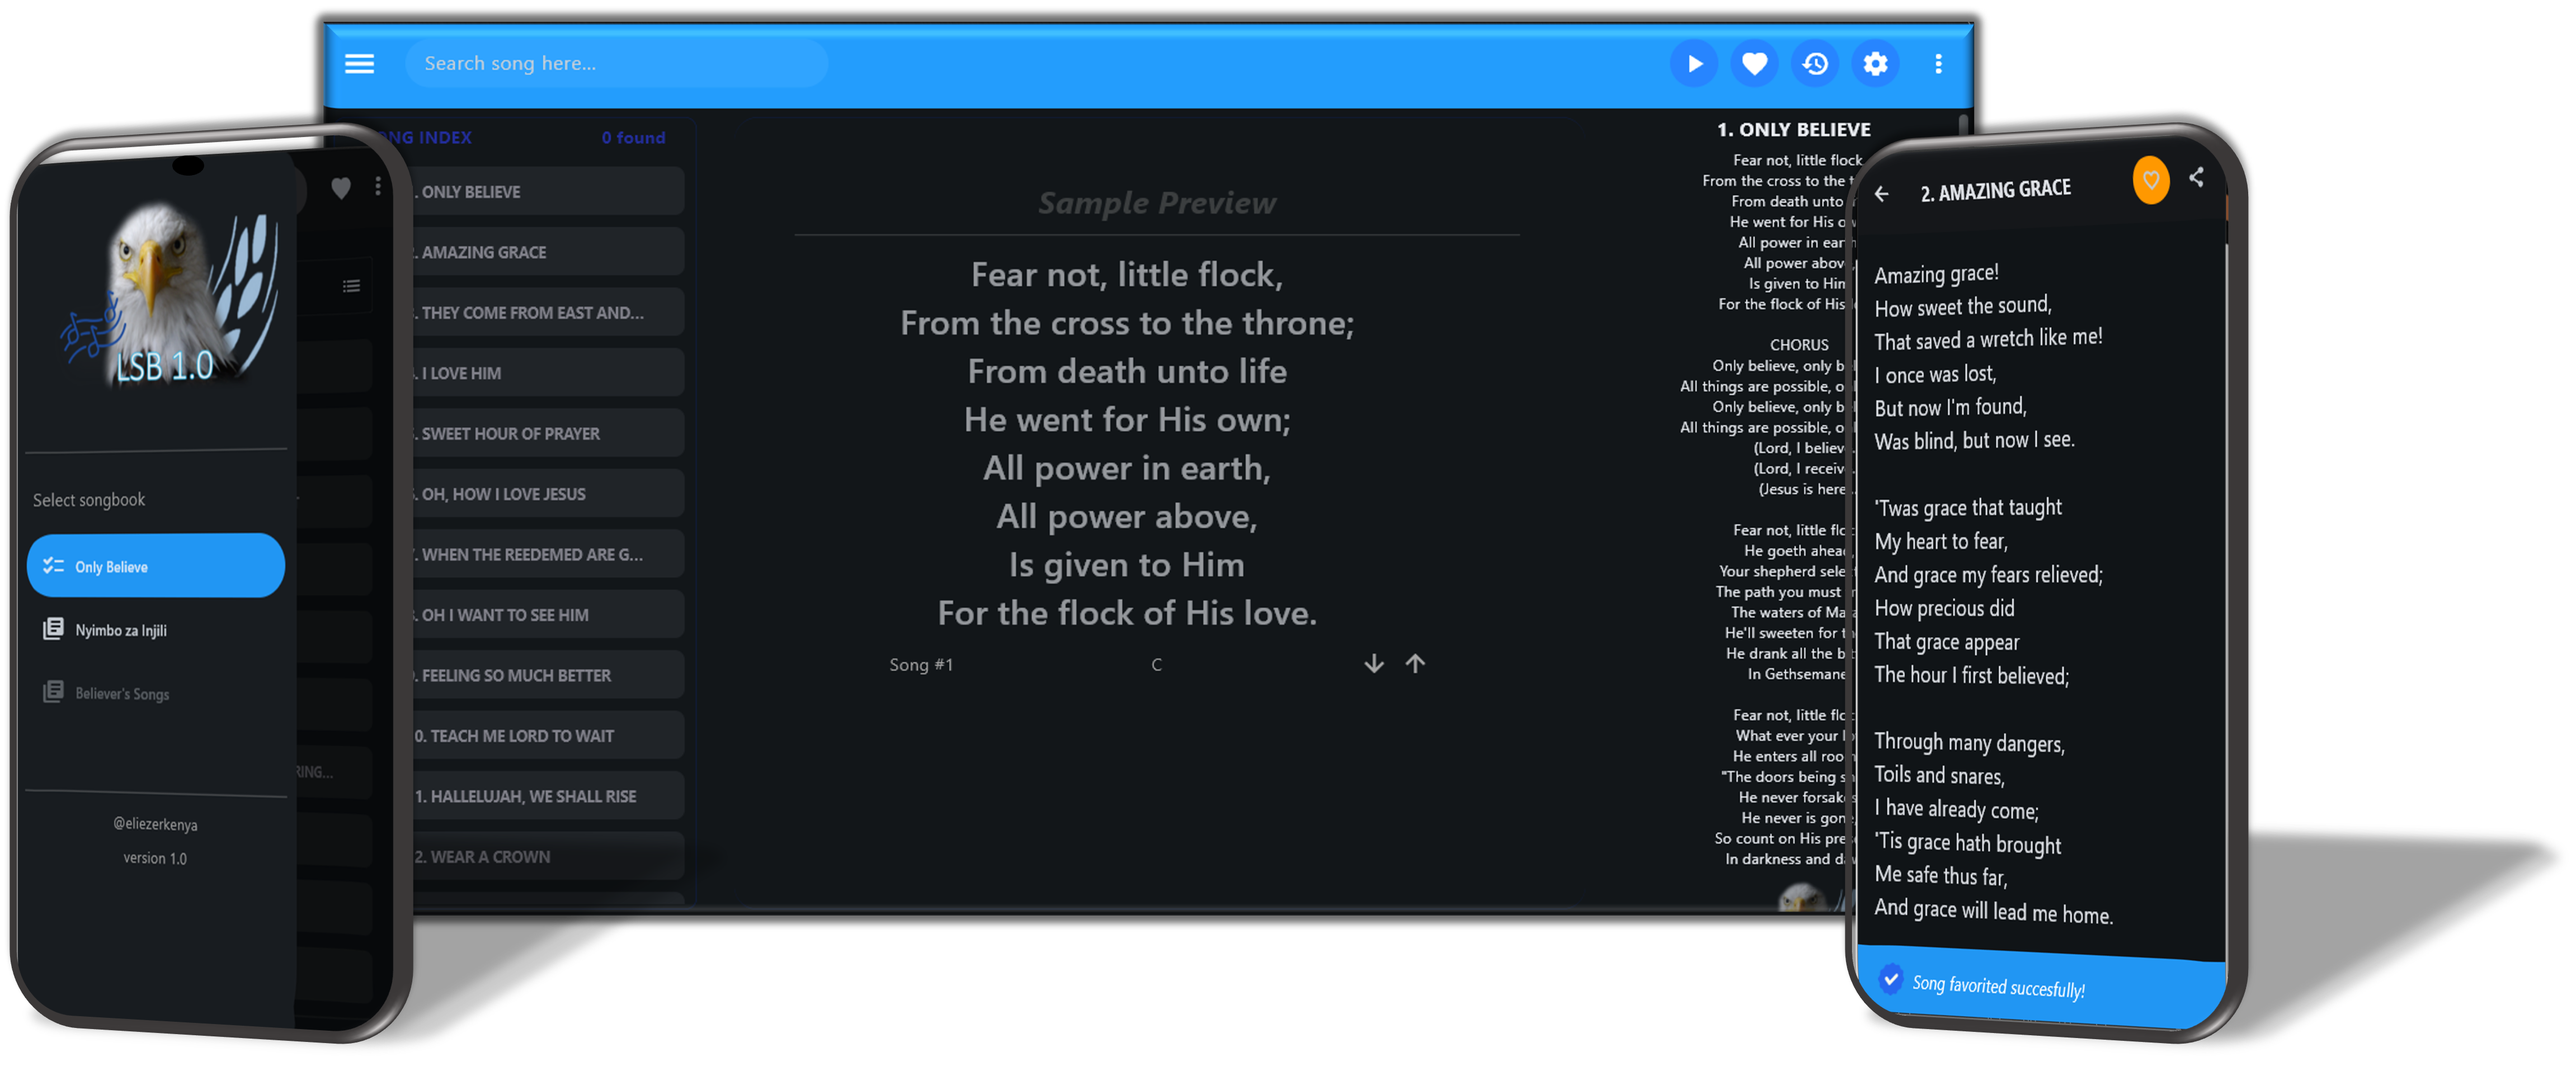
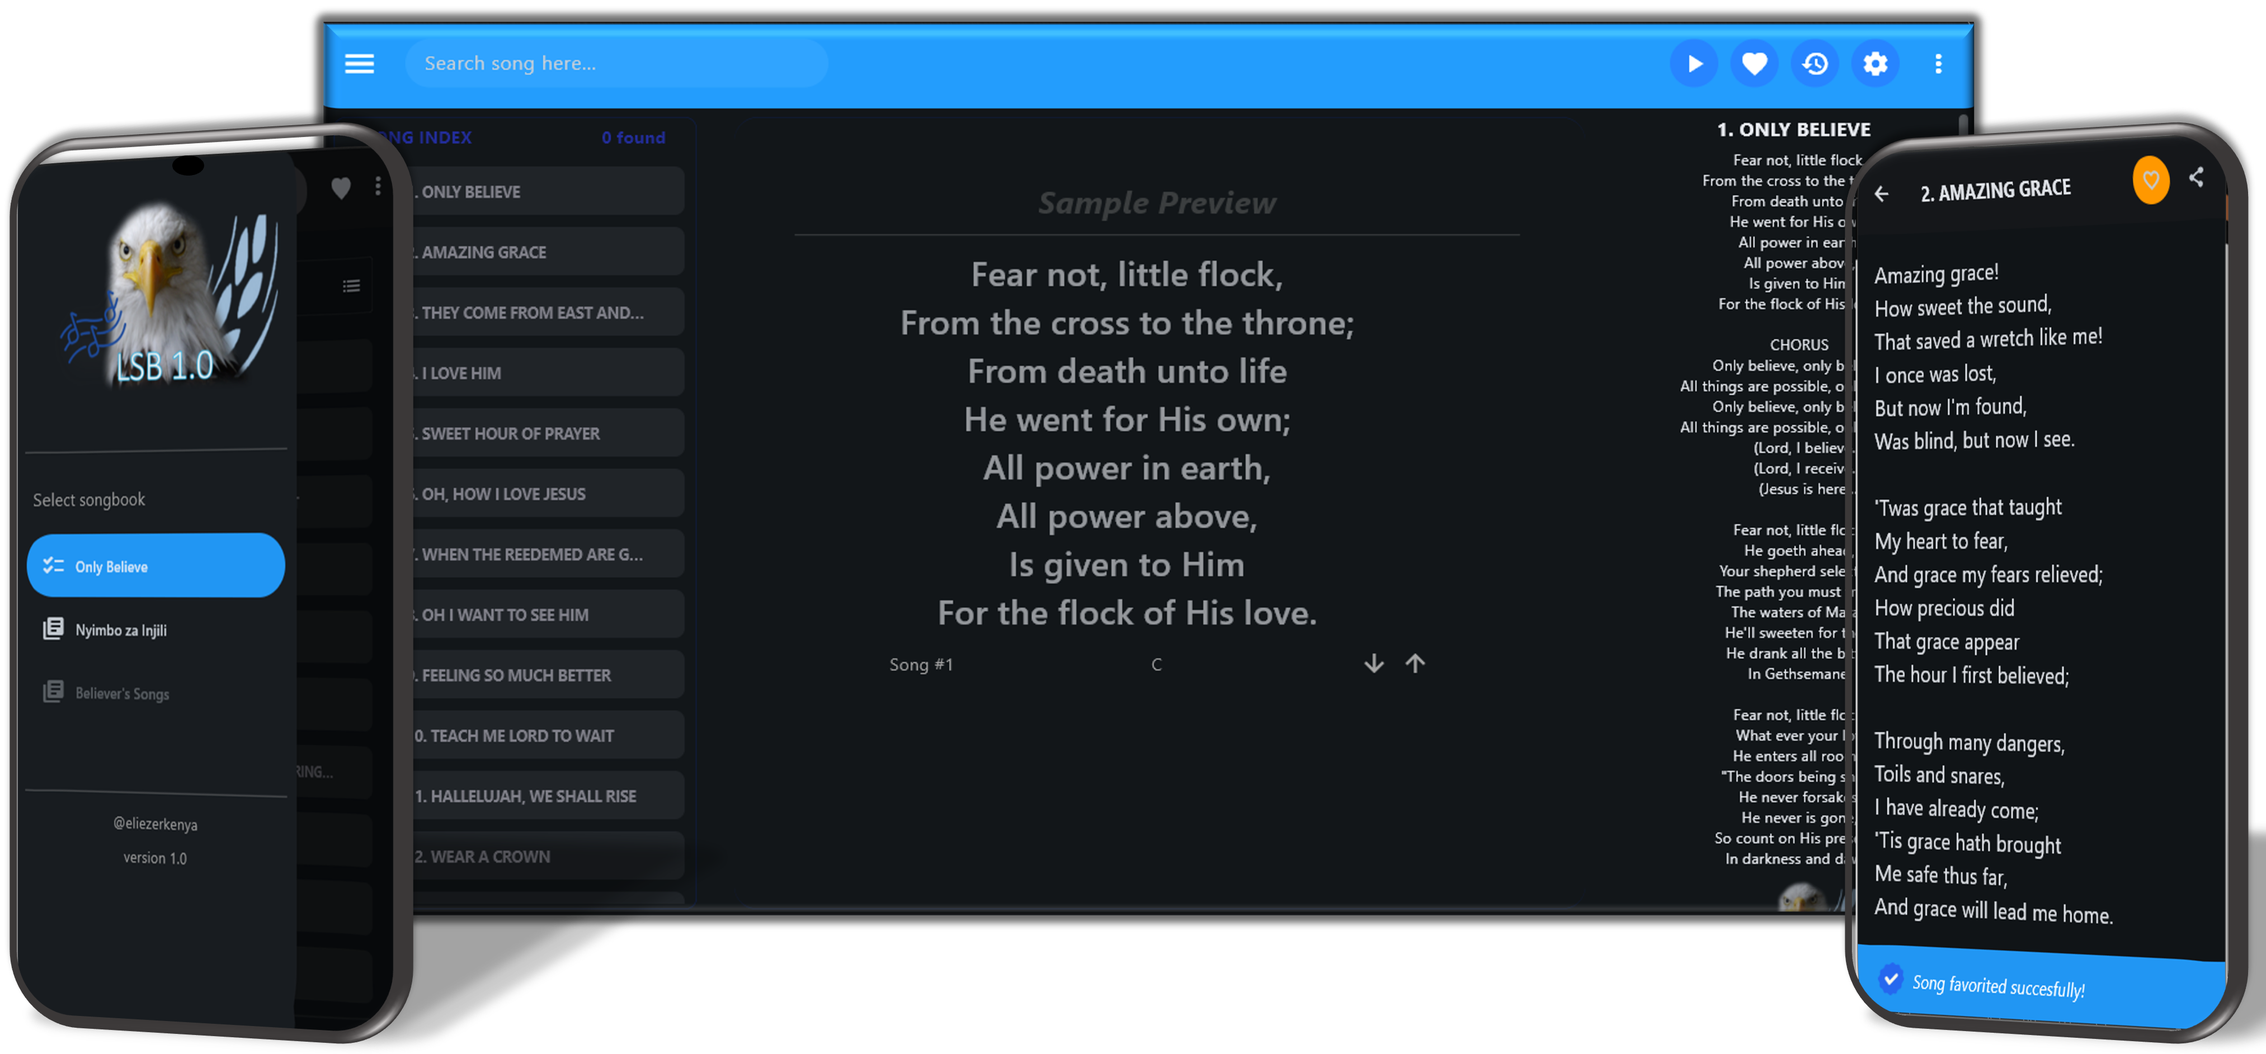
x3

Changed region(s): [[0.0, 0.0, 1.0, 1.0], [0.3421, 0.1846, 0.591, 0.6154], [0.0311, 0.7385, 0.0933, 0.8308]]

diff --git a/cloud/app/templates/index.html b/cloud/app/templates/index.html
@@ -18,7 +18,7 @@
     </div>
 </div>
 <div class="descr ">
-    <img src='{{url_for("static", filename="/img/picture3.png")}}' width="50%"/>
+    <img src='{{url_for("static", filename="/img/mobile.png")}}' width="50%"/>
     <h1 style="padding: 5px;">Get the apk for Android phones & tablets, and choose how to view songs as verse or full</h1>
     <h3> </h3>
     <h3></h3>

diff --git a/cloud/app/templates/lsb.html b/cloud/app/templates/lsb.html
@@ -21,7 +21,7 @@
 </div>
 
 <div class="descr ">
-    <img src='{{url_for("static", filename="/img/picture3.png")}}' width="30%"/>
+    <img src='{{url_for("static", filename="/img/mobile.png")}}' width="30%"/>
     <h2 style="padding: 5px;">Get the apk for Android phones & tablets</h2>
     <h3> </h3>
     <h3></h3>
